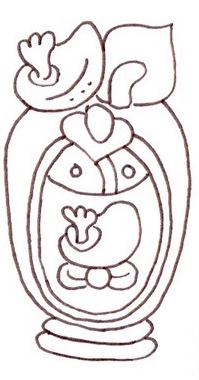
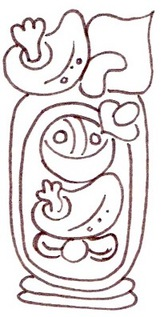
cleanup and post about poka as location

diff --git a/_pages/toki-pona/lesson-07.md b/_pages/toki-pona/lesson-07.md
@@ -28,21 +28,19 @@ preposition_definitions:
   text: lon
 - image: "/images/t47_tokipona/t47_kamasona/t47_kaso06_02.jpg"
   text: tawa
-- image: "/images/t47_tokipona/t47_kamasona/t47_kaso06_03.jpg"
-  text: kepeken
 - image: "/images/t47_tokipona/t47_kamasona/t47_kaso06_04.jpg"
   text: tan
+- image: "/images/t47_tokipona/t47_kamasona/t47_kaso06_03.jpg"
+  text: kepeken
 - image: "/images/t47_tokipona/t47_kamasona/t47_kaso07_01.jpg"
   text: sama
-- image: "/images/t47_tokipona/t47_kamasona/t47_kaso07_03.jpg"
-  text: poka
 ---
 
 {% include image_dictionary.html definitions=page.new_vocab_definitions %}
 
 ### using sama, tan, and poka
 
-We already took a look at lon, tawa, and tan in the last lesson, but there's still a little more to cover on prepositions. First let's review what we already know, adding the preposition sama. Remember, each preposition can be thought of as having a 'head' attached to an expandable body.
+We already took a look at lon, tawa, and tan in the last lesson, but there's still a little more to cover on prepositions. First let's review what we already know, adding the prepositions _kepeken_ and _sama_. Remember, each preposition can be thought of as having a 'head' attached to an expandable body.
 
 {% include image_dictionary.html definitions=page.preposition_definitions %}
 
@@ -60,7 +58,7 @@ In _len mute li sama_, there is no object to fill _sama_. In _tan ni li nasa_, _
 
 #### working as prepositional containers
 
-When one of these these glyph blocks function as a preposition, or as a combination verb and preposition, they become a container for the rest of the prepositional phrase. The head portion of the glyph can be oriented anywhere is isn’t obstructing the rest of the glyphs.
+When one of these glyph blocks function as a preposition, or as a combination verb and preposition, they become a container for the rest of the prepositional phrase. The head portion of the glyph can be oriented anywhere is isn’t obstructing the rest of the glyphs.
 
 {% include image_and_caption.html image="/images/t47_tokipona/t47_kamasona/t47_kaso07_06.jpg" caption="mi telo tan ni: mi jaki." %}
 
@@ -77,16 +75,6 @@ First the preposition fits into the _li_ container. Then, the object of the prep
 {% include image_and_caption.html image="/images/t47_tokipona/t47_kamasona/t47_kaso07_11.jpg" caption="jan lili li tan unpa." %}
 
 You can try drawing the whole unit from the inside out, and even drawing the rest of the sentence after this block has been composed. I usually find I have to try a couple times until I find a composition I’m satisfied with.
-
-### using poka with lon
-
-When used as a preposition, _poka_ is used in conjunction with _lon_. This offers another double infix, as _poka_ is infixed in _lon_. In _mi lon poka sina_, _sina_ is infixed in _poka_ which in turn is infixed in _lon_.
-
-{% include image_and_caption.html image="/images/t47_tokipona/t47_kamasona/t47_kaso07_04.jpg" caption="mi lon poka sina." %}
-
-This gets compounded again when we use _li_:
-
-{% include image_and_caption.html image="/images/t47_tokipona/t47_kamasona/t47_kaso07_12.jpg" caption="ma suli li lon poka ma lili." %}
 
 #### using verb phrases
 
@@ -108,7 +96,9 @@ You may be thinking this is a whole other thing you have to think about that doe
 
 It also has the advantage of disambiguating things that might have more that one reading when written linearly.
 
-### anpa, insa, monsi, sewi
+### directional nouns
+
+_anpa_, _insa_, _monsi_, _sewi_, and _poka_, or directional nouns as jan Sonja calls them in _pu_, are used in conjunction with prepositions to indicate direction. I am quite used to using _anpa_ as jan Pije does, where Sonja uses _noka_, but they all operate identically:
 
 {% include image_and_caption.html image="/images/t47_tokipona/t47_kamasona/t47_kaso07_16.jpg" caption="suno li lon sewi mi." %}
 
@@ -116,10 +106,14 @@ It also has the advantage of disambiguating things that might have more that one
 
 Since these words aren't true prepositions, they need one of the prepositions we have discussed so far to complete the prepositional phrase. Because of this they end up acting as part of the infix to the preposition.
 
+{% include image_and_caption.html image="/images/t47_tokipona/t47_kamasona/t47_kaso07_04.jpg" caption="mi lon poka sina." %}
+
+{% include image_and_caption.html image="/images/t47_tokipona/t47_kamasona/t47_kaso07_12.jpg" caption="ma suli li lon poka ma lili." %}
+
+You may have wondered up to now why the glyph block for li was so boring. Now you can see just how much work it has to do at times. If it were any more complex it would be hard to stuff all those verb phrases and verb prepositions inside.
+
 {% include image_and_caption.html image="/images/t47_tokipona/t47_kamasona/t47_kaso07_18.jpg" caption="pipi lili li kama tan insa ma." %}
 
 {% include image_and_caption.html image="/images/t47_tokipona/t47_kamasona/t47_kaso07_19.jpg" caption="ona li tawa monsi mi." %}
-
-You may have wondered up to now why the glyph block for li was so boring. Now you can see just how much work it has to do at times. If it were any more complex it would be hard to stuff all those verb phrases and verb prepositions inside.
 
 Just as the prepositions have a head and body, often the subject of the sentence becomes the head and li becomes the body.

diff --git a/_posts/2020-07-25-historical-experimental-directions.md b/_posts/2020-07-25-historical-experimental-directions.md
@@ -1,0 +1,67 @@
+---
+date: 2020-07-25
+title: poka anu lon poka?
+excerpt:
+  historical use of directional nouns in toki pona and sitelen sitelen
+thumb: /images/t47/t47.120004.jpg
+tags:
+- featured
+- sitelen sitelen
+- toki pona
+---
+
+Recently while I was adding [lesson 10](/toki-pona/lesson-10/) to the sitelen sitelen lessons, jan Inkepa noted that this image used _poka_ without _lon_, counter to the examples in both jan Pije's and jan Sonja's texts:
+
+{% include image_and_caption.html image="/images/t47/t47.200001.jpg" caption="tomo moku li poka seme?" %}
+
+Indeed, in jan Pije's lessons and in pu, the use of what Sonja calls 'directional nouns' are all the same: _poka, anpa, sewi, insa, monsi_, (and also _noka_ in pu) come after prepositions _lon, tawa, and tan_. I added in a _lon_, but something still didn't feel right to me:
+
+{% include image_and_caption.html image="/images/t47/t47.200002.jpg" caption="tomo moku li lon poka seme?" %}
+
+Why had I decided to use _poka_ as a container, unlike the other directional nouns?  Going back to look at [lesson 7](/toki-pona/lesson-7/), I found the examples I gave even more troubling:
+
+{% include image_and_caption.html image="/images/t47/t47.120001.jpg" caption="mi poka sina." %}
+
+{% include image_and_caption.html image="/images/t47/t47.120002.jpg" caption="mi moku lon poka sina." %}
+
+{% include image_and_caption.html image="/images/t47/t47.120003.jpg" caption="ma suli li poka ma lili." %}
+
+Had I always been using _poka_ both inconsistently _and_ wrong?  I looked through the now mostly defunct toki pona forums for discussions I vaguely remembered about this, I found some hints, but a lot of the information is just no longer there.  Then last night it occurred to me, I had the URL for jan Pije's old website in the archives of my lessons.  [Looking at it in the Wayback Machine](https://web.archive.org/web/20141009053259/http://tokipona.net/tp/janpije/lesson/lesson7.html) I finally found my answer.  Here is an excerpt from jan Pije's lessons from before they were updated in 2015:
+
+> #### poka
+
+> poka is rather unique in that it can act both as a noun/adjective and also as a preposition. Let's look at each of these uses separately.
+
+> ##### poka as a noun/adjective
+
+> This use is the same as you saw earlier in anpa, insa, monsi, and sewi. Here are some examples:
+   - ona li lon poka mi. -- He is at my side. He is beside me.
+   - jan poka -- neighbor; someone who is beside you
+   - poka telo -- "water side"; in other words, the beach
+
+> ##### poka as a preposition
+
+> Unlike anpa and the rest, poka can also be used directly as a preposition. These two sentences below have the same meaning, but you go about them in a different way:
+   - mi moku poka jan pona mi. -- I ate beside my friend.
+   - mi moku lon poka pi jan pona mi. -- I ate at side of my friend.
+   - (Note: This sentence uses pi, which isn't taught until a later lesson. I wanted to present this usage of poka here, but don't worry if the sentence confuses you due to its use of pi.)
+
+> So, you see, you can treat poka either as a noun/adjective or as a preposition. It's up to you, but whichever way you choose you can still express your thought. Here is another example:
+   - mi utala e jan ike poka jan nasa. -- I fought an enemy with a drunk guy.
+   - mi utala e jan ike lon poka pi jan nasa. -- I fought an enemy at the side of a drunk guy.
+
+> That's not so bad, now is it?
+
+I remember now how these examples caused me endless confusion when first learning toki pona.  I'm really happy that it's use is now much simpler and consistent with other patterns.
+
+### poka li sitelen poki anu seme?
+
+I do, however, have the pesky problem of examples using _poka_ as a container. I've never really been that happy with the way it fills this role. The top part of _poka_ naturally wants to take up half the glyph, leaving little room for anything else inside. For now as I clean up the examples in lesson 7 to align better with current toki pona, I have also removed any infixes within _poka_ and present it the same as the other directional nouns.
+
+There is however, an amusing alternative.  I could go the other direction and make all of these related glyphs containers as well. For visual clarity, I think they would also have to combine with the leading preposition, similar to how _seme_ operates in the examples in lesson 10. Here are some examples I tried out recently:
+
+{: .wrapper__center-image}
+![location containers](/images/t47/t47.200722.jpg)
+
+_tawa monsi_ and _tawa anpa_ with an infix really make me smile when I see them like this. The other's, not so much.  Go ahead some time and give this a try, and let me know if you like something about it. For now though, I'm just happy to simplify both the grammar and the drawings at the same time.
+

diff --git a/_pages/toki-pona/lesson-10.md b/_pages/toki-pona/lesson-10.md
@@ -81,13 +81,11 @@ This simplification carries over to our other prepositions as well. To be sure t
 {% assign image_set="/images/t47_tokipona/t47_kamasona/t47_kaso10_14.jpg|/images/t47_tokipona/t47_kamasona/t47_kaso10_15.jpg" | split: "|" %}
 {% include image_and_caption.html image=image_set caption="tomo tawa li tawa seme?" %}
 
-Here are two further examples with _lon_, _kepeken_, _poka_, and _sama_:
+Here are two further examples with _lon_, _kepeken_, and _sama_:
 
 {% include image_and_caption.html image="/images/t47_tokipona/t47_kamasona/t47_kaso10_16.jpg" caption="sina li lon seme?" %}
 
 {% include image_and_caption.html image="/images/t47_tokipona/t47_kamasona/t47_kaso10_17.jpg" caption="mi pakala kepeken seme?" %}
-
-{% include image_and_caption.html image="/images/t47_tokipona/t47_kamasona/t47_kaso10_17b.jpg" caption="tomo moku li lon poka seme?" %}
 
 {% include image_and_caption.html image="/images/t47_tokipona/t47_kamasona/t47_kaso10_17c.jpg" caption="jan ni li sama seme?" %}
 
@@ -119,12 +117,12 @@ If you have known about the first half of these lessons for some time, and are j
 Since then, I have continuously received heartfelt emails where you have taken the time not only to study these lessons but also decifer from the few examples available what has been left unsaid. You have often also requested that I finish the lessons, and as toki pona has maintained and grown a community of people so positive in nature, I can't help but want to give back to it. So it is my pleasure to add again to these lessons and contribute in the best way that I can. Seeing that jan Pije's lessons remain an authoritative source and that he also has kept them up to date, I will continue to follow them with my own lesson structure. Any suggestions are always welcome.
 
 {: .wrapper__center-image}
-![lipu lawa pi esun kama](/images/t47/t47.2000721_1.jpg)
+![lipu lawa pi esun kama](/images/t47/t47.200721_1.jpg)
 
 jan pona o pilin pona! sina kama sona mute. tenpo pini mute la mi pini e lipu kama sona pi sitelen sitelen. sina mute li kama jo e sona li sewi e kon pi sitelen sitelen. tenpo ni la mi open pali e lipu sin.  kepeken toki pona la mi mute li toki ala e ni: mi olin e toki pona anu olin e sitelen sitelen. taso mi ken toki e ni: mi olin e kulupu pi toki pona li olin e sina mute.
 
 {: .wrapper__center-image}
-![lipu lawa pi esun kama](/images/t47/t47.2000721_2.jpg)
+![lipu lawa pi esun kama](/images/t47/t47.200721_2.jpg)
 
 lon lipu ni anu lon sitelen sitelen la seme li pona anu ike tawa sina? o toki tawa mi. mi open.
 

diff --git a/_posts/2012-08-01-balloon-boy-interview.md b/_posts/2012-08-01-balloon-boy-interview.md
@@ -18,7 +18,7 @@ Here are the drawings and the toki pona translations:
 ![panel 1](/images/t47/t47.09001_1_l.jpg)
 
 Panel 1
-  
+
 > **jan Muwawa:** tenpo pimeja ni la, toki e weka pi sike con. jan lili li ken lon insa, li ken tawa  moli ona tan insa tomo tawa. jan lawa li lukin tawa sewi en tawa anpa li wile lukin e jan lili Palakon.  jan mute lon ma Mewika li lukin e ni kin.  Tenpo ilo sike tu wan la, pali ike li pini pona.
 
 > kulupu mama ona ale li lon. o kama pona jan lukin pi ma Mewika en ma ale. mi jan Muwawa, jan Lawi Lawa li weka.
@@ -34,8 +34,8 @@ Panel 2
 ![panel 3](/images/t47/t47.09001_3_l.jpg)
 
 Panel 3
-  
-> mi mute ale li pilin pona tan ni: jan Palakon li pona.  tenpo suno ni la mi mute lon ma li pilin ike, li pilin ona li lon sike kon.  tenpo lili la, sike kon li tawa ike, li lon sewi pi ma Kolowato. pona la, ona li lon weka lon insa poka insa tomo sina.
+
+> mi mute ale li pilin pona tan ni: jan Palakon li pona.  tenpo suno ni la mi mute lon ma li pilin ike, li pilin ona li lon sike kon.  tenpo lili la, sike kon li tawa ike, li lon sewi pi ma Kolowato. pona la, ona li lon weka lon insa poki insa tomo sina.
 
 > jan Wiko, o toki pona tawa mi mute e ni: seme li kama tawa jan Palakon? tenpo suno ni la, ale li kama pakala kin tan seme?
 
